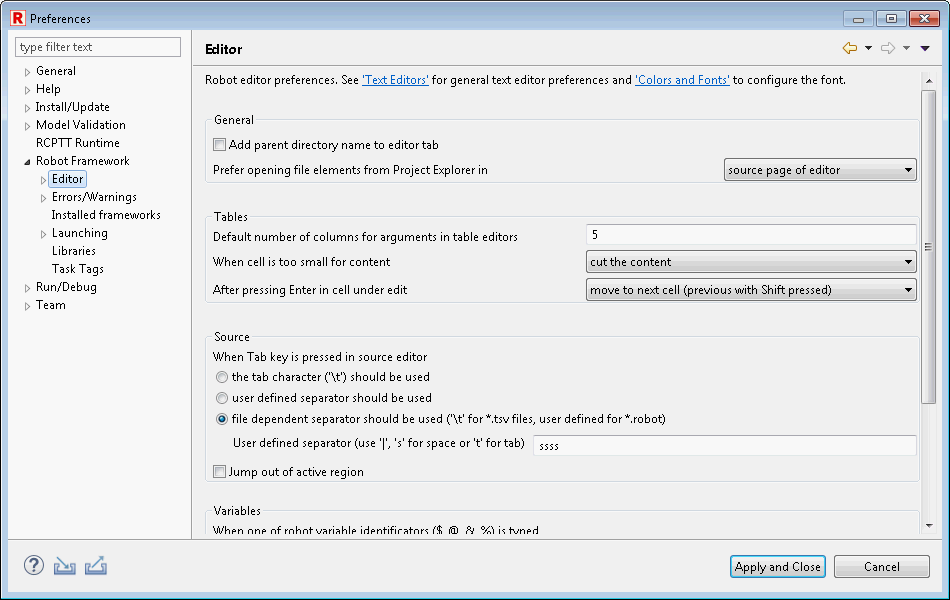
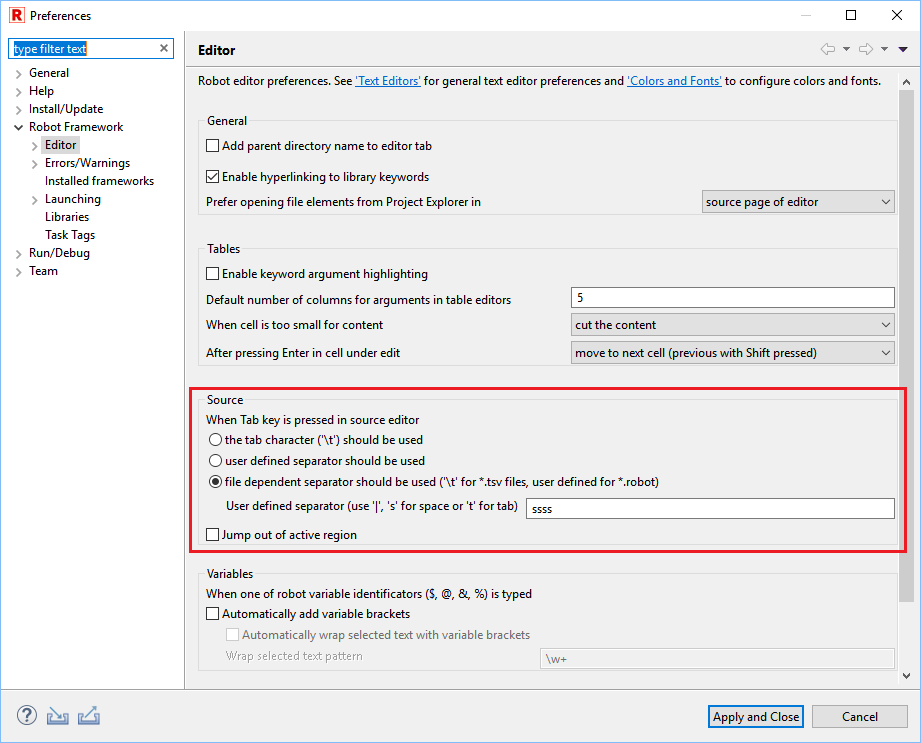
RED-1236 Help updated

Changed region(s): [[0.0, 0.0, 1.0, 1.0]]

diff --git a/src/Eclipse-IDE/org.robotframework.ide.eclipse.main.plugin.doc.user/help/user_guide/working_with_RED/table_general.html b/src/Eclipse-IDE/org.robotframework.ide.eclipse.main.plugin.doc.user/help/user_guide/working_with_RED/table_general.html
@@ -24,13 +24,19 @@ All table related preferences (cell text folding, number of columns, default beh
 Window -&gt; Preferences -&gt; Robot Framework -&gt; Editor</a></code> in <b>Tables</b> section.
 <br><br><img src="images/table_preferences.png"> <br><br>
 
-<h3>Default number of columns in Test Cases/Keywords editors</h3>
-To make Table editors tidy, RED creates predefined numbers of columns.<br>
+<h3>Keyword argument highlighting</h3>
+<p>RED allows to automatically color required, optional and redundant keyword arguments cells in any of table editors.</p><br>
 
-<h3>Enter key - what to do after Enter key press during cell edit</h3>
-Enter key type can be behave in two ways in RED while editing cell in any of Table editors.<bR>
-By default, hitting Enter will end cell edit and move cursor to next cell to the right. If the cell is the last in row (for instance in comment cell), Enter will move cursor to new row.<br>
-Additionally it can be configured that Enter will finish cell edit and cursor will stay on current cell.<br>
-<b>Hint:</b> by pressing Shift+Enter, cursor will move backwards.
+<h3>Default number of columns in table editors</h3>
+<p>To make table editors tidy, RED creates predefined numbers of columns.</p><br>
+
+<h3>To long cell text behavior</h3>
+<p>Too long cell content can be cut or wrapped.</p><br>
+
+<h3>Enter key - what to do after Enter key press during cell edition</h3>
+<p>Enter key type can behave in two ways in RED while editing cell in any of table editors.<bR>
+By default, pressing Enter will close cell editor and move cursor to next cell to the right. If the cell is last one in the row (for instance in the comment cell), pressing Enter will move cursor to next row.<br>
+Additionally it can be configured that Enter will close cell editor and cursor will stay on current cell.<br>
+<b>Hint:</b> by pressing Shift+Enter, cursor will move backwards.</p>
 </body>
 </html>

diff --git a/src/Eclipse-IDE/org.robotframework.ide.eclipse.main.plugin.doc.user/help/user_guide/general.html b/src/Eclipse-IDE/org.robotframework.ide.eclipse.main.plugin.doc.user/help/user_guide/general.html
@@ -12,13 +12,6 @@ It is set by default to be aware of the file type. For .tsv files each Tab will 
 Moreover, <b>jump out of active region</b> behavior can be enabled there. If enabled, instead of inserting defined separator in source editor, RED will move cursor to the end of active region. It may be useful for example for variables edition. 
 <br><br><img src="images/tab_behaviour.png"> <br><br>
 
-<h3>Validating &amp; revalidating whole project/workspace</h3>
-Validation of test case is triggered by any user actions, it is also done during files &amp; project imports.<br>
-Whenever there is a change in multiple files (for instance find/replace) or  big file import/deletion, it is good to force revalidation of project.<br>
-It is done accessing option <b><code>Project -&gt; Clean...</code></b>  
-<br><br><img src="images/gen_1.png"> <br><br>
-At the bottom right of RED, progress bar will appear with the status of validation.<br>
-
 <h3>Automatic source formatting CTRL+SHIFT+F</h3>
 
 <p>Formatting source is Eclipse based mechanism which provides code formatting with several predefined rules which are 

diff --git a/src/Eclipse-IDE/org.robotframework.ide.eclipse.main.plugin.doc.user/help/user_guide/validation.html b/src/Eclipse-IDE/org.robotframework.ide.eclipse.main.plugin.doc.user/help/user_guide/validation.html
@@ -13,6 +13,13 @@ spell check. Validation mechanism walk down the project tree and read all test f
 (.robot, .txt and .tsv), mark all unknown/undefined keywords, variable misuse, missing resources etc. <br>
 </p>
 
+<h3>Validating &amp; revalidating whole project/workspace</h3>
+Validation of test case is triggered by any user actions, it is also done during files &amp; project imports.<br>
+Whenever there is a change in multiple files (for instance find/replace) or  big file import/deletion, it is good to force revalidation of project.<br>
+It is done accessing option <b><code>Project -&gt; Clean...</code></b>  
+<br><br><img src="images/gen_1.png"> <br><br>
+At the bottom right of RED, progress bar will appear with the status of validation.<br>
+
 <h3>Validation execution</h3>
 
 <p>Validation mechanism is executed any time when edited file is changed with slight delay while <b>Build Automatic </b>

diff --git a/src/Eclipse-IDE/org.robotframework.ide.eclipse.main.plugin.doc.user/help/whats_new/0_9_2.html b/src/Eclipse-IDE/org.robotframework.ide.eclipse.main.plugin.doc.user/help/whats_new/0_9_2.html
@@ -53,6 +53,14 @@
            <img src="images/0_9_2_quick_assist_assign.gif"/>
            </td>
         </tr>
+        
+        <tr>
+           <td><b>Keyword arguments highlighting in table editors</b></td>
+           <td><p>New preference allows to enable coloring of required, optional and redundant keyword arguments cells in tables.   
+           </p>
+           <img src="images/0_9_2_args_highlighting.gif"/>
+           </td>
+        </tr>
     </table>
     
 
